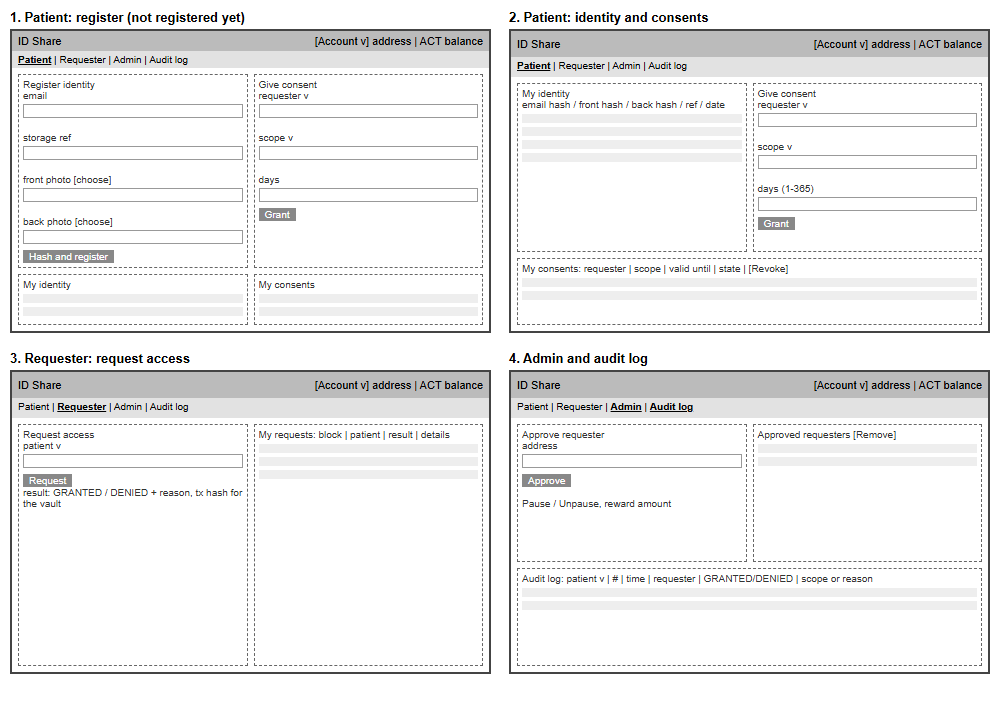
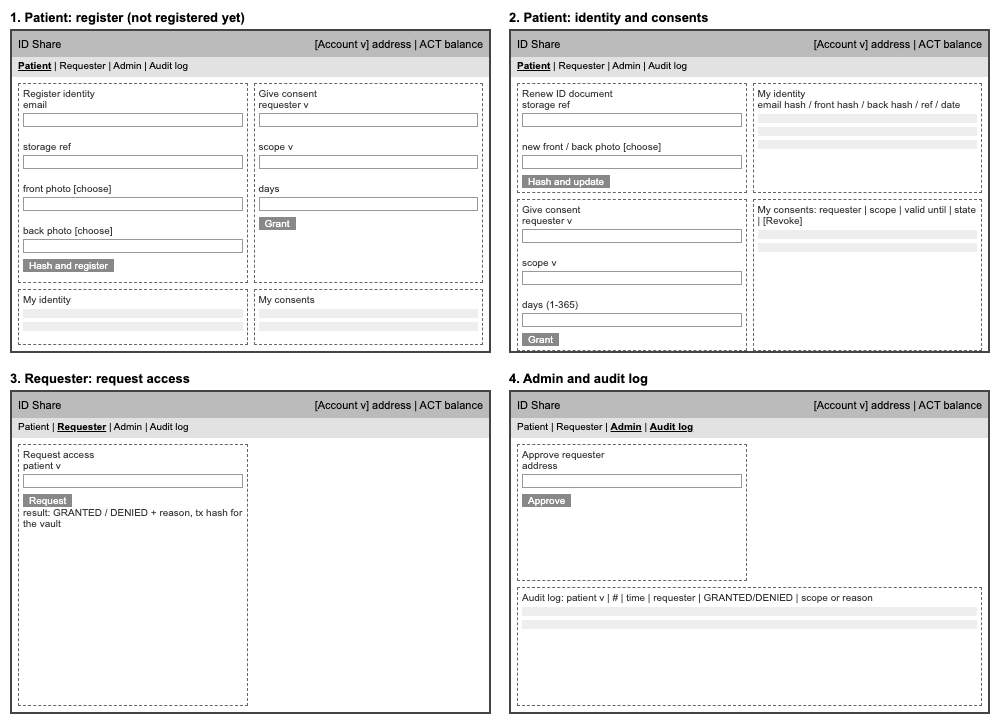
Cut the front-end down to what Step 6 asks for
Removes the requester history table, the approved-requesters list with
Remove, the pause/unpause and reward panel, and the URL shortcut. Keeps
register, view and renew identity, grant and revoke consent, request
access, approve requester, the audit log and the account switcher.
Wireframes updated to match.

diff --git a/digital-identity-platform/frontend/app.js b/digital-identity-platform/frontend/app.js
@@ -212,21 +212,6 @@ async function revoke(requester) {
 
 async function refreshRequester() {
   fillSelect($("requestPatient"), await registeredPatients());
-
-  const me = current.account.address;
-  const granted = await events("DataSharing", "AccessGranted", { requester: me });
-  const denied = await events("DataSharing", "AccessDenied", { requester: me });
-  const all = [
-    ...granted.map((e) => ({ e, ok: true })),
-    ...denied.map((e) => ({ e, ok: false })),
-  ].sort((a, b) => Number(b.e.blockNumber - a.e.blockNumber));
-
-  fillTable($("myRequestsTable"), ["Block", "Patient", "Result", "Details"], all.map(({ e, ok }) => [
-    e.blockNumber.toString(),
-    nameOf(e.args.patient),
-    ok ? `<span class="granted">GRANTED</span>` : `<span class="denied">DENIED</span>`,
-    ok ? SCOPES[e.args.scope] : REASONS[e.args.reason],
-  ]));
 }
 
 async function requestAccess() {
@@ -247,17 +232,6 @@ async function requestAccess() {
     $("requestResult").innerHTML = `<span class="denied">DENIED</span>: ${REASONS[log.args.reason]}. The attempt was logged.`;
   }
   refresh();
-}
-
-async function refreshAdmin() {
-  const requesters = await approvedRequesters();
-  fillTable($("requesterTable"), ["Requester", ""], requesters.map((r) => [
-    nameOf(r),
-    `<button class="small" data-remove="${r}">Remove</button>`,
-  ]));
-  const paused = await read("DataSharing", "paused");
-  $("pausedState").textContent = paused ? "PAUSED" : "running";
-  $("rewardAmount").textContent = formatEther(await read("ConsentManager", "rewardAmount"));
 }
 
 async function approve() {
@@ -288,7 +262,7 @@ async function refreshAudit() {
 async function refresh() {
   try {
     await refreshAccountInfo();
-    await Promise.all([refreshPatient(), refreshRequester(), refreshAdmin(), refreshAudit()]);
+    await Promise.all([refreshPatient(), refreshRequester(), refreshAudit()]);
   } catch (err) {
     setStatus("Cannot reach the contracts. Is `npx hardhat node` running and deployed? " + (err.shortMessage ?? err.message), true);
   }
@@ -309,19 +283,11 @@ $("updateBtn").addEventListener("click", updateDocument);
 $("grantBtn").addEventListener("click", grant);
 $("requestBtn").addEventListener("click", requestAccess);
 $("approveBtn").addEventListener("click", approve);
-$("pauseBtn").addEventListener("click", async () => { if (await write("DataSharing", "pause", [])) refresh(); });
-$("unpauseBtn").addEventListener("click", async () => { if (await write("DataSharing", "unpause", [])) refresh(); });
 $("auditPatient").addEventListener("change", refreshAudit);
 
-document.addEventListener("click", async (e) => {
+document.addEventListener("click", (e) => {
   if (e.target.dataset.revoke) revoke(e.target.dataset.revoke);
-  if (e.target.dataset.remove) {
-    if (await write("DigitalIdentity", "removeRequester", [e.target.dataset.remove])) refresh();
-  }
 });
 
-const params = new URLSearchParams(location.search);
-const startAccount = Number(params.get("account") ?? 0);
-$("accountSelect").value = startAccount;
-showTab(location.hash.slice(1) || "patient");
-selectAccount(startAccount);
+showTab("patient");
+selectAccount(0);

diff --git a/digital-identity-platform/frontend/style.css b/digital-identity-platform/frontend/style.css
@@ -266,35 +266,18 @@ button:disabled {
   cursor: not-allowed;
 }
 
-button.small,
-#pauseBtn,
-#unpauseBtn {
+button.small {
+  margin: 0;
+  padding: 4px 10px;
+  font-size: 12.5px;
   color: var(--accent);
   background: transparent;
   border-color: var(--line-strong);
 }
 
-button.small:hover,
-#pauseBtn:hover,
-#unpauseBtn:hover {
+button.small:hover {
   background: var(--accent-tint);
   border-color: var(--accent);
-}
-
-button.small {
-  margin: 0;
-  padding: 4px 10px;
-  font-size: 12.5px;
-}
-
-#pauseBtn {
-  margin-right: 6px;
-  color: var(--denied);
-}
-
-#pauseBtn:hover {
-  background: var(--denied-tint);
-  border-color: var(--denied);
 }
 
 table {
@@ -398,11 +381,6 @@ td.hint {
   background: var(--denied-tint);
 }
 
-#pausedState,
-#rewardAmount {
-  font-variant-numeric: tabular-nums;
-}
-
 @media (max-width: 860px) {
   .tab {
     grid-template-columns: minmax(0, 1fr);
@@ -426,16 +404,12 @@ td.hint {
   }
 
   #consentTable,
-  #myRequestsTable,
-  #requesterTable,
   #auditTable {
     display: block;
     overflow-x: auto;
   }
 
   #consentTable td,
-  #myRequestsTable td,
-  #requesterTable td,
   #auditTable td {
     white-space: nowrap;
   }

diff --git a/digital-identity-platform/frontend/index.html b/digital-identity-platform/frontend/index.html
@@ -84,10 +84,6 @@
         <button id="requestBtn">Request access</button>
         <p id="requestResult"></p>
       </div>
-      <div class="card">
-        <h2>My requests</h2>
-        <table id="myRequestsTable"></table>
-      </div>
     </section>
 
     <section id="tab-admin" class="tab hidden">
@@ -95,17 +91,6 @@
         <h2>Approve requester</h2>
         <label>Address <input id="approveAddress" placeholder="0x..."></label>
         <button id="approveBtn">Approve</button>
-      </div>
-      <div class="card">
-        <h2>Approved requesters</h2>
-        <table id="requesterTable"></table>
-      </div>
-      <div class="card">
-        <h2>Platform</h2>
-        <p>Data sharing: <b id="pausedState"></b></p>
-        <button id="pauseBtn">Pause</button>
-        <button id="unpauseBtn">Unpause</button>
-        <p>Reward per first consent: <b id="rewardAmount"></b> ACT</p>
       </div>
     </section>
 
